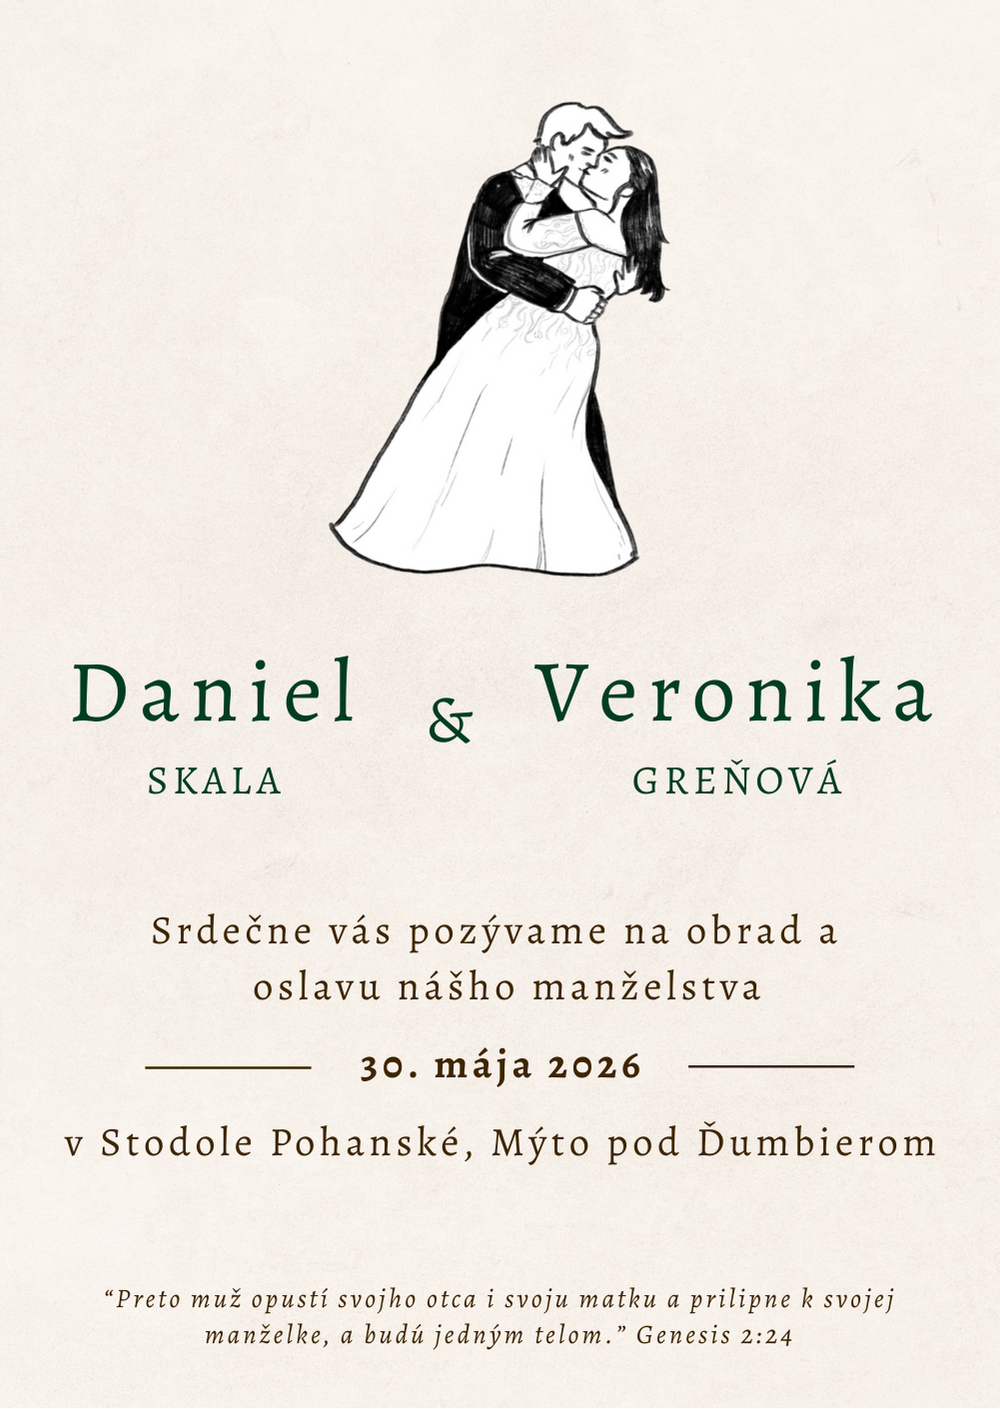
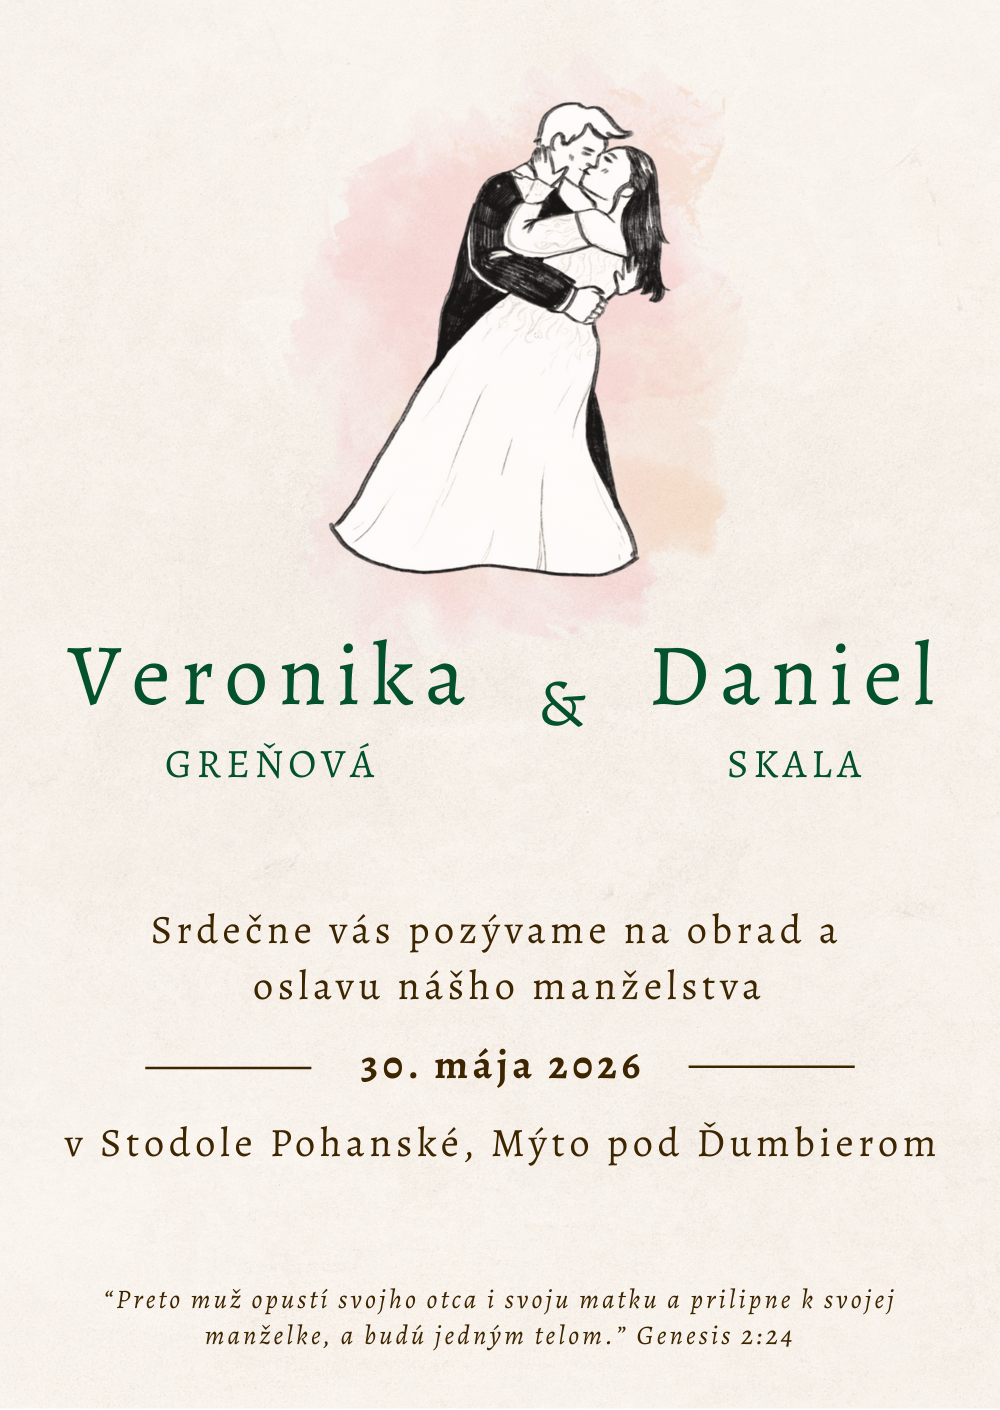
collapsible invitation update

diff --git a/src/App.jsx b/src/App.jsx
@@ -25,7 +25,34 @@ function App() {
       <SectionDivider color="#FFFFFF" />
 
       {/* Wedding invitation opening animation */}
-      <section className="bg-white py-8 md:py-12">
+      <section className="relative py-12 md:py-16 overflow-hidden bg-gradient-to-b from-white via-[#fdfcfa] to-white">
+        {/* Subtle centered floral watermark */}
+        <div
+          className="absolute inset-0 flex items-center justify-center pointer-events-none"
+          style={{ opacity: 0.06 }}
+        >
+          <img
+            src="/images/wedding_leaves/leaves_circular.png"
+            alt=""
+            className="w-[80%] max-w-3xl"
+            aria-hidden="true"
+          />
+        </div>
+
+        {/* Corner florals - very subtle */}
+        <img
+          src="/images/wedding_leaves/three_roses_t.png"
+          alt=""
+          className="absolute top-20 -left-10 w-48 md:w-64 opacity-[0.08] pointer-events-none rotate-12"
+          aria-hidden="true"
+        />
+        <img
+          src="/images/wedding_leaves/three_roses_t.png"
+          alt=""
+          className="absolute top-20 -right-10 w-48 md:w-64 opacity-[0.08] pointer-events-none -rotate-12 scale-x-[-1]"
+          aria-hidden="true"
+        />
+
         <InvitationOpen
           autoOpen={true}
           openPercent={0.8}
